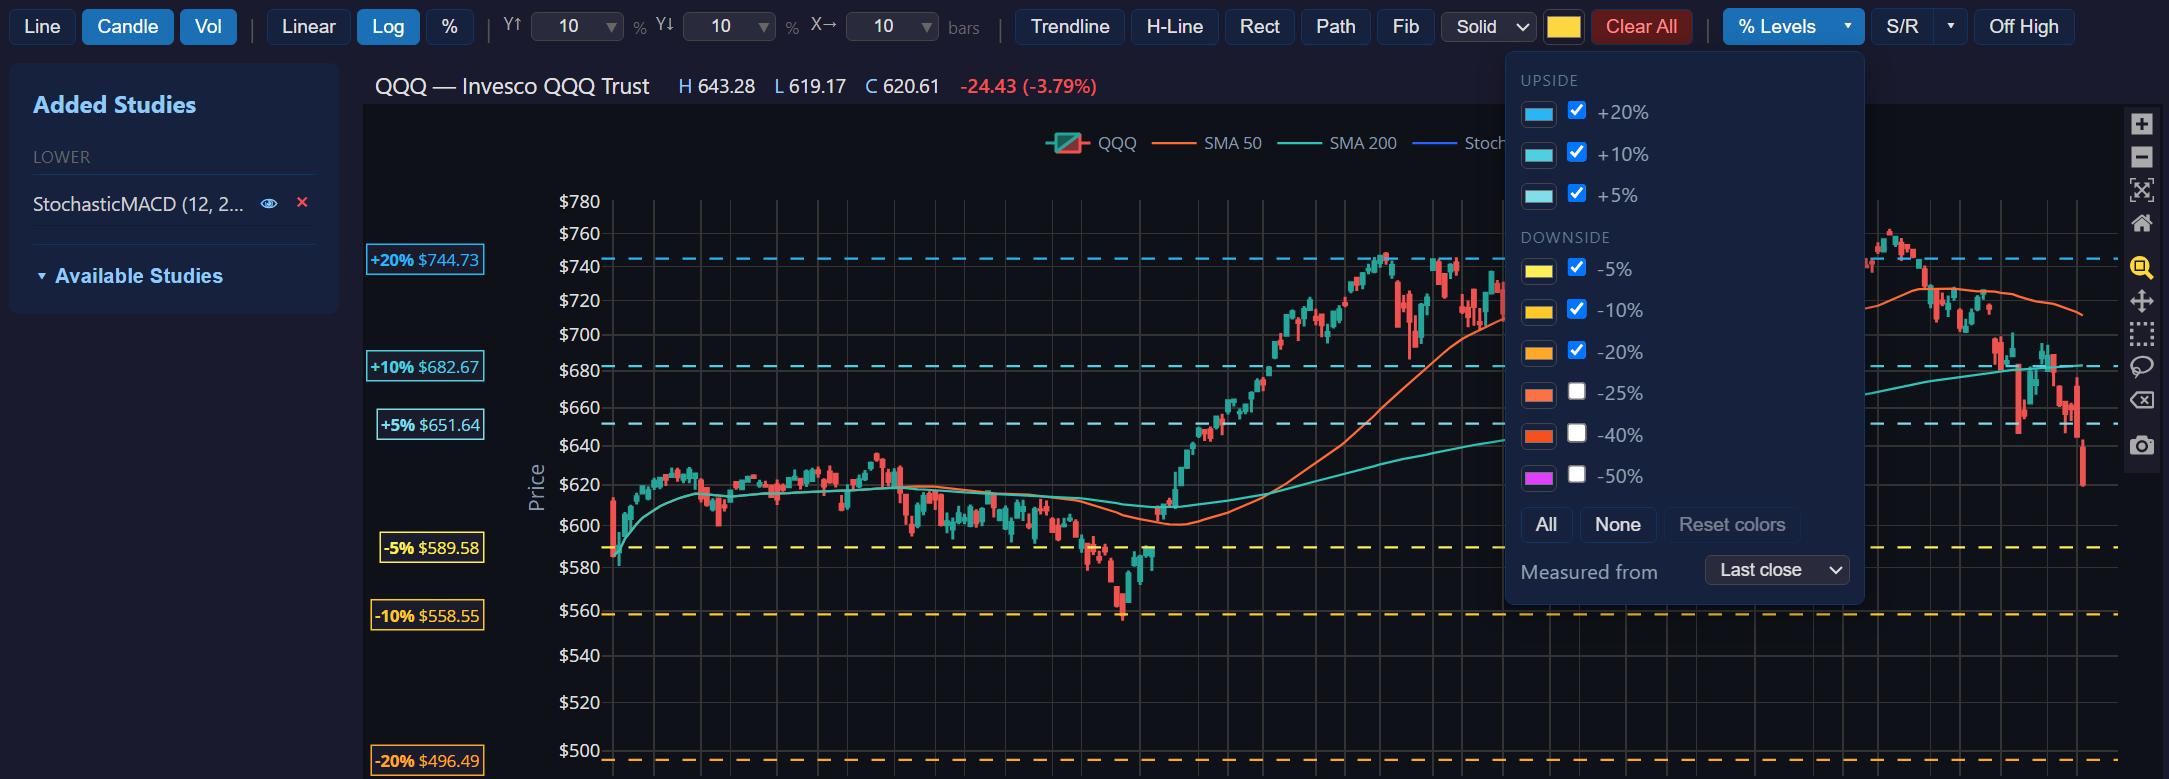
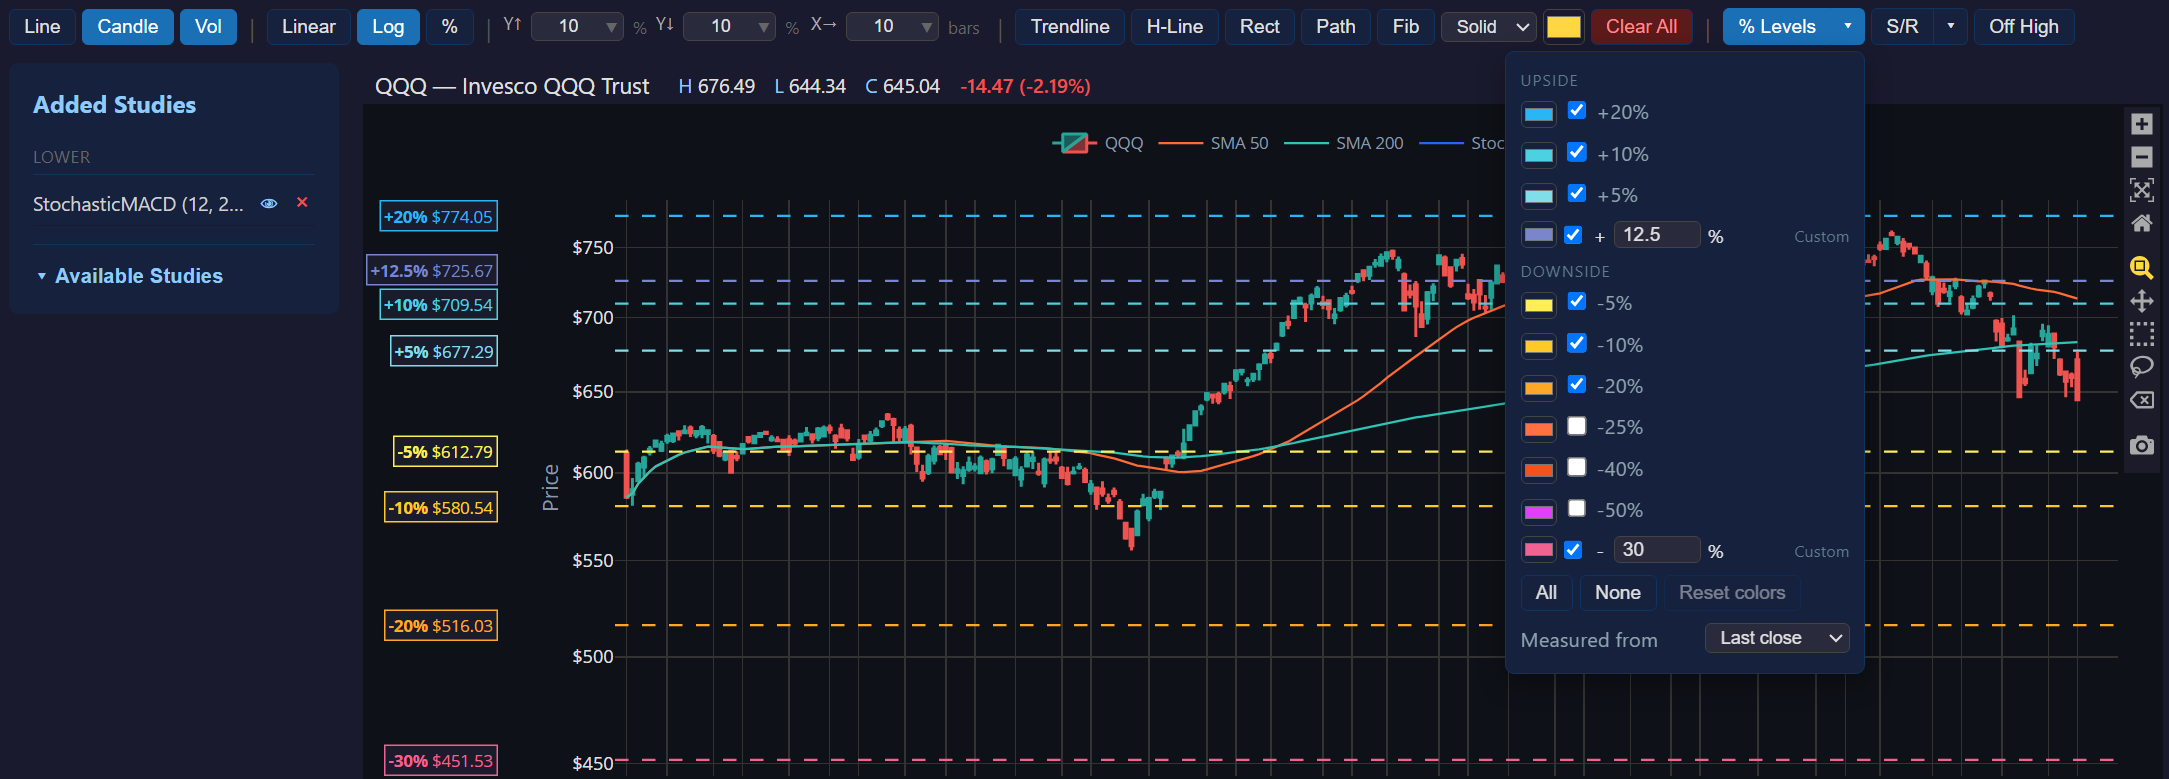
Update the % Levels help screenshot to show the custom rows
Re-captured price-levels-percent.png with the Custom upside (+12.5%) and
downside (-30%) rows filled in and drawn on the QQQ chart. The new capture
has QQQ closing at $645.04, so the worked % Levels examples in Help now use
that close, plus one custom-level example. The caption and alt text mention
the Custom rows.

diff --git a/src/pages/Help.jsx b/src/pages/Help.jsx
@@ -4276,7 +4276,7 @@ function ETFScreenHelp() {
       <h4 style={{ marginTop: '1.25rem', marginBottom: '0.4rem' }}>% Levels</h4>
       <p style={{ marginBottom: '0.75rem' }}>
         Dashed lines at fixed percent moves from a reference price, each labeled with the percent and the price it
-        works out to. With QQQ closing at $620.61, the −10% line sits at $558.55: the price QQQ would reach after a
+        works out to. With QQQ closing at $645.04, the −10% line sits at $580.54: the price QQQ would reach after a
         10% drop from here. They are plain arithmetic, useful for sizing a move in dollars or picking a stop or a
         target. They say nothing about where price is likely to go.
       </p>
@@ -4301,8 +4301,8 @@ function ETFScreenHelp() {
       </ul>
       <HelpScreenshot
         src="./help-screenshots/etf-screen/price-levels-percent.png"
-        alt="% Levels menu open over a QQQ chart, with a color square and checkbox for each level"
-        caption="The % Levels menu: a color square and checkbox for each level, All / None / Reset colors, and what the levels are measured from. The labels sit left of the price axis."
+        alt="% Levels menu open over a QQQ chart, with a color square and checkbox for each level and a custom +12.5% and −30% row"
+        caption="The % Levels menu: a color square and checkbox for each level, a Custom row at the end of each list (here +12.5% and −30%), All / None / Reset colors, and what the levels are measured from. The labels sit left of the price axis."
       />
 
       <h4 style={{ marginTop: '1.25rem', marginBottom: '0.4rem' }}>Support and Resistance (S/R)</h4>
@@ -4387,8 +4387,8 @@ function ETFScreenHelp() {
       <ul style={{ paddingLeft: '1.5rem', lineHeight: '1.8', marginBottom: '1rem' }}>
         <li>The reference price is either the <strong>close of the last bar</strong> (<em>Last close</em>) or the
           <strong> highest high of any bar</strong> in the period (<em>Period high</em>, which includes intraday spikes).</li>
-        <li>Each level is that price × (1 + the percent). From a $620.61 close: −10% = $620.61 × 0.90 = $558.55, and
-          +5% = $620.61 × 1.05 = $651.64.</li>
+        <li>Each level is that price × (1 + the percent). From a $645.04 close: −10% = $645.04 × 0.90 = $580.54, and
+          +5% = $645.04 × 1.05 = $677.29. A custom level works the same way: −30% = $645.04 × 0.70 = $451.53.</li>
       </ul>
 
       <p style={{ marginBottom: '0.4rem' }}><strong>Off High</strong></p>
